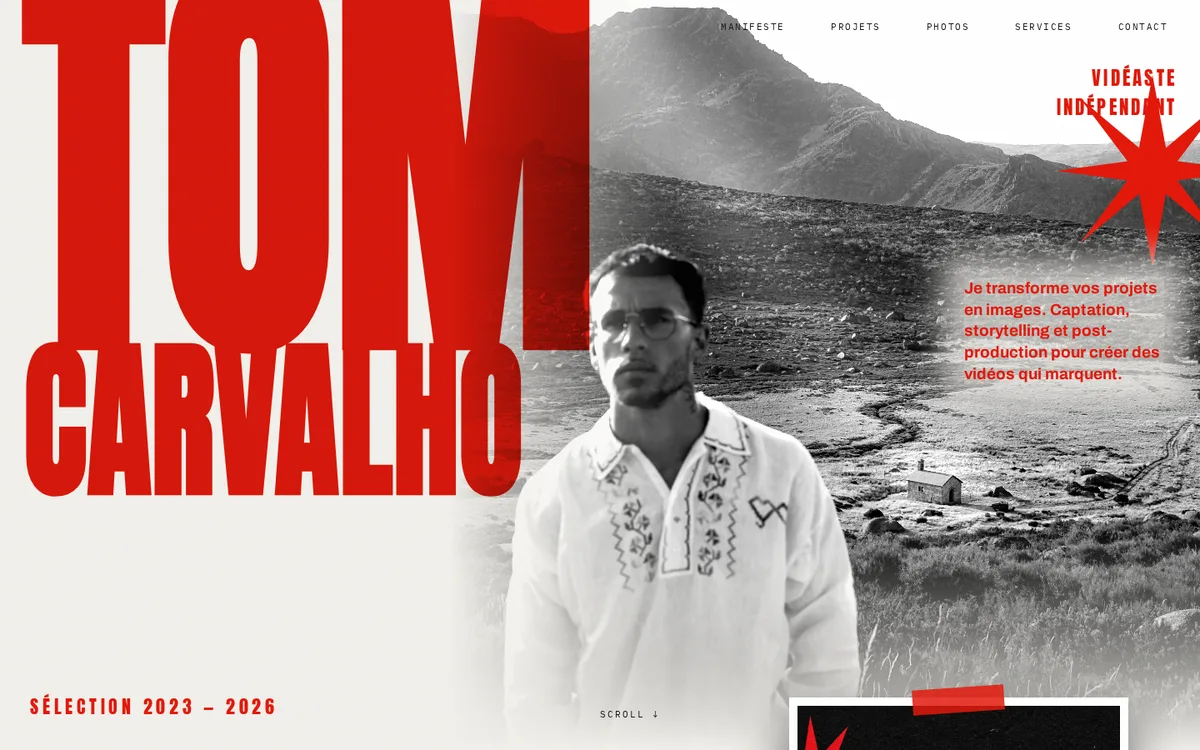
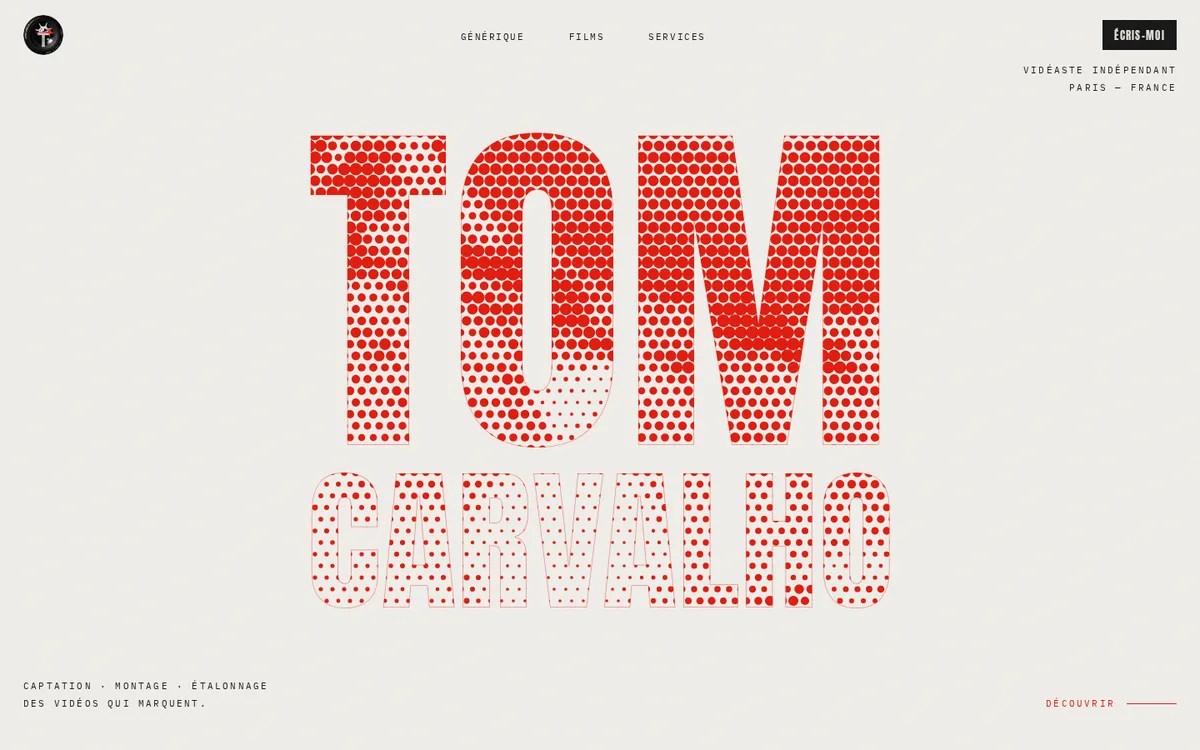
tom

diff --git a/src/styles/global.css b/src/styles/global.css
@@ -315,7 +315,7 @@ h1{font-size:clamp(1.95rem,4.4vw,3.55rem);font-weight:500;letter-spacing:-.035em
 .hcta{display:flex;gap:12px;justify-content:center;flex-wrap:wrap}
 
 /* ---- mockup dashboard ---- */
-.mockwrap{margin-top:84px;position:relative;perspective:1600px}
+.mockwrap{margin-top:84px;position:relative}
 /* aura diffuse qui enveloppe tout le dashboard — elle dépasse des quatre
    côtés ; le dessus reste plus lumineux grâce à .proj qui s'y ajoute */
 .mockwrap::before{content:'';position:absolute;inset:-110px -100px -90px;
@@ -331,33 +331,30 @@ h1{font-size:clamp(1.95rem,4.4vw,3.55rem);font-weight:500;letter-spacing:-.035em
     radial-gradient(32% 32% at 50% 100%,rgba(237,233,254,.92),transparent 70%),
     radial-gradient(58% 72% at 50% 100%,rgba(167,139,250,.55),transparent 72%),
     radial-gradient(92% 100% at 50% 100%,rgba(146,118,255,.26),transparent 78%)}
-/* cadre de verre autour de la maquette, comme un bezel. Pas de
+/* cadre de verre autour de la maquette, comme un bezel, parfaitement droit
+   (plus d'inclinaison 3D, ni au repos ni au survol). Pas de
    backdrop-filter : la séquence animée à l'intérieur l'aurait fait re-flouter
    à chaque image (mesuré : le hero tombait à 30 images/s) */
 .mockframe{position:relative;border-radius:34px;padding:11px;
   background:linear-gradient(150deg,rgba(255,255,255,.17),rgba(255,255,255,.045));
   border:1px solid rgba(255,255,255,.3);
   box-shadow:0 1px 0 rgba(255,255,255,.45) inset,0 -1px 0 rgba(255,255,255,.14) inset,
-    0 46px 100px -34px rgba(6,3,20,.95);
-  transform:rotateX(9deg);transform-origin:top center;
-  transition:transform .8s cubic-bezier(.16,1,.3,1)}
-@media(hover:hover){.mockwrap:hover .mockframe{transform:rotateX(2deg)}}
+    0 46px 100px -34px rgba(6,3,20,.95)}
 /* pas d'effet lumineux sur la bordure haute elle-même : la lumière vient
    uniquement de la diffusion .proj au-dessus et de l'aura enveloppante */
 .mock{border-radius:24px;overflow:hidden}
 
 /* ---- entrée du hero ----
    Jouée une seule fois au chargement. Les keyframes n'ont qu'un `from` :
-   l'arrivée est la valeur normale de l'élément (rotateX du cadre compris,
-   qui change selon l'écran), et le remplissage `backwards` rend la main au
-   CSS une fois fini — le survol du cadre refonctionne. Pas de flou sur les
+   l'arrivée est la valeur normale de l'élément, et le remplissage
+   `backwards` rend la main au CSS une fois fini. Pas de flou sur les
    éléments en backdrop-filter (boutons, cadre) : le filtre en ferait une
    racine de fond, le verre s'éteindrait pendant l'entrée.
    Le titre démarre sans délai : c'est l'élément LCP. */
 @keyframes hero-mot{from{opacity:0;transform:translateY(.32em);filter:blur(12px)}}
 @keyframes hero-flou{from{opacity:0;transform:translateY(12px);filter:blur(8px)}}
 @keyframes hero-monte{from{opacity:0;transform:translateY(16px)}}
-@keyframes hero-cadre{from{opacity:0;transform:translateY(90px) rotateX(32deg) scale(.92)}}
+@keyframes hero-cadre{from{opacity:0;transform:translateY(90px) scale(.94)}}
 @keyframes hero-lueur{from{opacity:0}}
 .hero h1 .mot{display:inline-block;
   animation:hero-mot 1s cubic-bezier(.2,.75,.15,1) calc(var(--i)*55ms) backwards}
@@ -994,7 +991,7 @@ footer{position:relative;z-index:1;padding:66px 0 30px;
   .fg > div:first-child{grid-column:1/-1}
 
   /* la maquette : cadre et marges resserrés */
-  .mockframe{padding:7px;border-radius:26px;transform:rotateX(5deg)}
+  .mockframe{padding:7px;border-radius:26px}
   .mock{border-radius:19px}
 
   /* frise : la colonne des chiffres se resserre */
@@ -1066,7 +1063,7 @@ footer{position:relative;z-index:1;padding:66px 0 30px;
 
   .badge{font-size:11.5px;padding:6px 13px;gap:8px}
   .hero .badge{margin-bottom:34px}
-  .mockframe{padding:5px;border-radius:21px;transform:none}
+  .mockframe{padding:5px;border-radius:21px}
   .mock{border-radius:16px}
   .tnode{gap:0 13px;padding-left:20px}
   .bcard{padding:22px 19px 24px}
@@ -1075,7 +1072,6 @@ footer{position:relative;z-index:1;padding:66px 0 30px;
   .bigcta{padding:42px 18px}
   .wkpi{gap:18px}
   .hcta .btn{flex:1 1 100%}
-  .mockwrap{perspective:none}
 }
 
 /* ============================================================

diff --git a/src/data/realisations.ts b/src/data/realisations.ts
@@ -93,15 +93,18 @@ export const realisations: readonly Realisation[] = [
     client: 'Tom Carvalho',
     activite: 'Vidéaste indépendant',
     secteur: 'Créateurs & vidéo',
-    ville: 'France',
+    ville: 'Paris',
     annee: '2026',
+    url: 'https://tomcarvalho.fr/',
     type: 'Portfolio',
-    tags: ['Portfolio vidéo', 'Sélection 2023 – 2026', 'Galerie photo', 'Contact direct'],
-    accent: '#E5372B',
-    palette: ['#0B0B0B', '#E5372B', '#EDE9E1'],
-    accroche: 'Je transforme chaque projet en images fortes.',
+    tags: ['Portfolio vidéo', 'Films & photos', 'Services détaillés', 'Formulaire de contact'],
+    // couleurs du site en ligne (css/style.css : --noir, --rouge, --papier) ;
+    // la séquence du hero les lit dans cet ordre
+    accent: '#E3170A',
+    palette: ['#0A0A0A', '#E3170A', '#F1EFEA'],
+    accroche: 'Des vidéos qui marquent.',
     description:
-      "Un portfolio à la typographie énorme, rouge sur noir, façon affiche : manifeste, projets numérotés (automobile, institutionnel, événementiel), galerie photo argentique et numérique. Le site parle comme lui, sans détour.",
+      "Un portfolio clair et graphique : le nom en lettres géantes tramées de points rouges, un badge « accès plateau » pour se présenter, puis les films, les photos prises entre deux plans et cinq services, du format court à l'étalonnage. Le formulaire invite à écrire, même avec une idée encore floue.",
   },
   {
     id: 'aurore-piercing',
